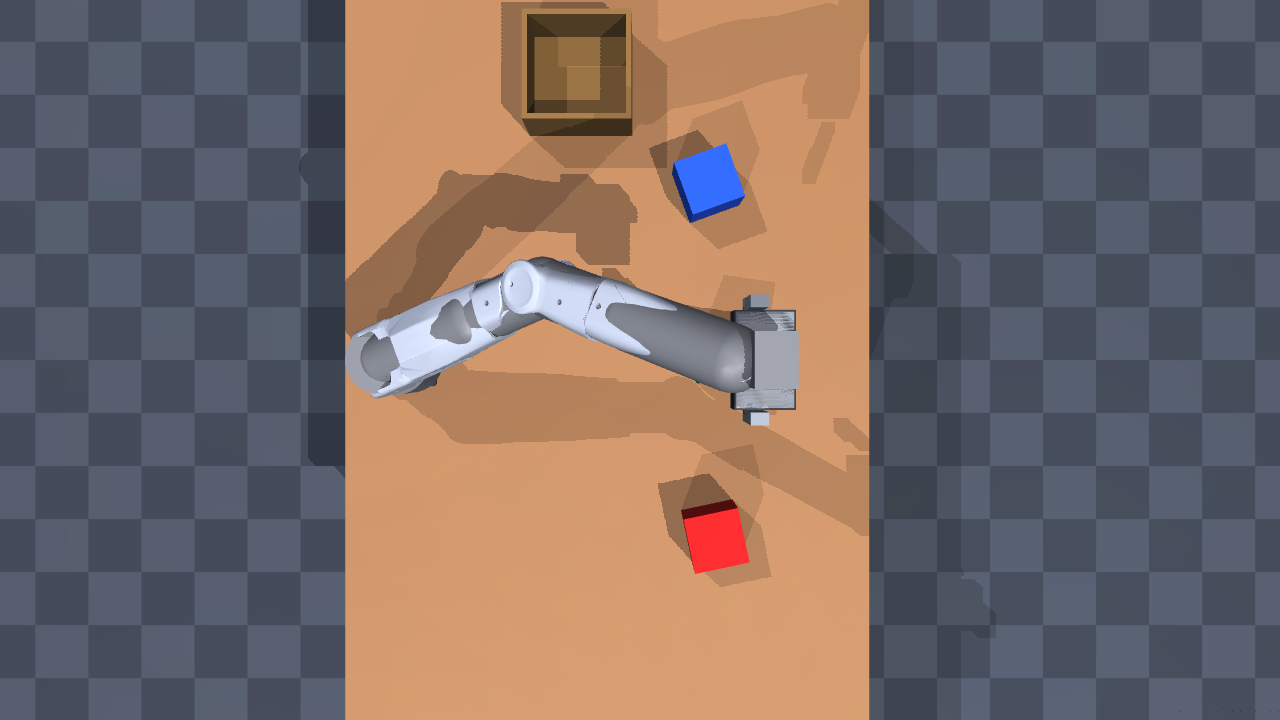
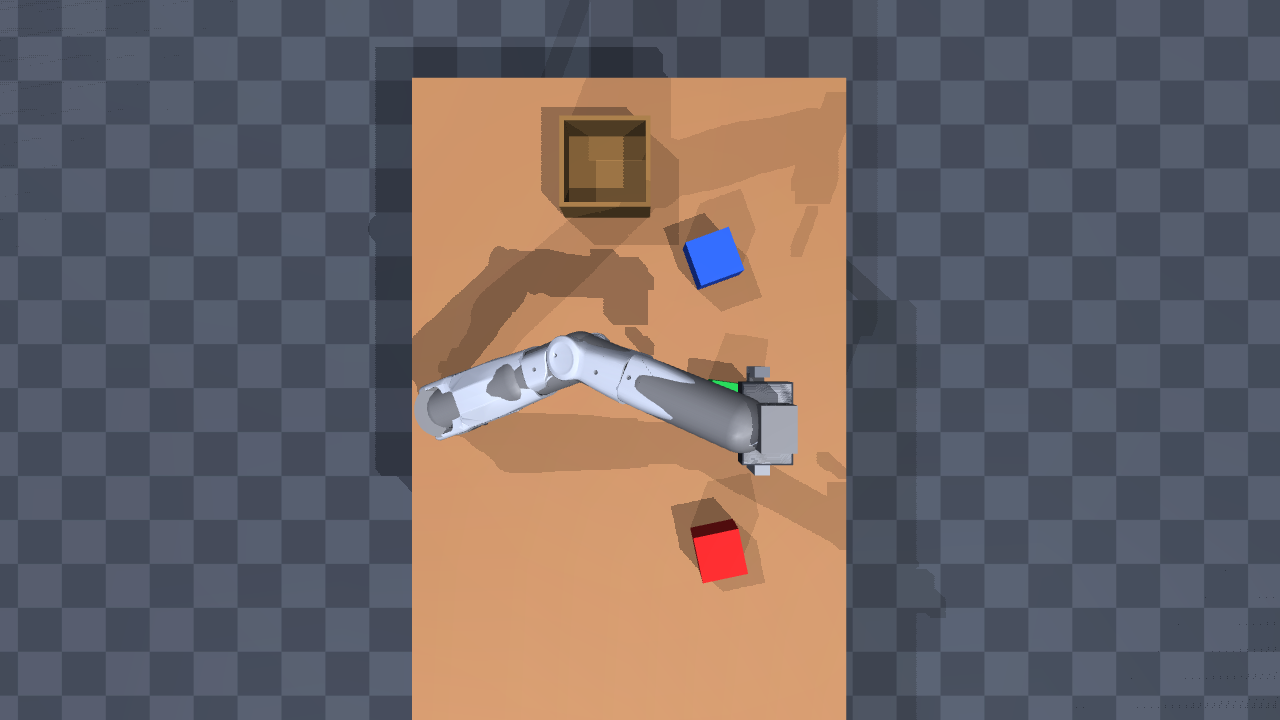
fix: 俯视相机取景扩到包含收纳篮，机械臂占比 1.27%→2.07%

Changed region(s): [[0.2188, 0.0, 0.75, 1.0], [0.7188, 0.4583, 0.75, 0.7944], [0.7188, 0.8556, 0.7812, 0.9778]]

diff --git a/tools/check_basket_px.py b/tools/check_basket_px.py
@@ -1,0 +1,66 @@
+#!/usr/bin/env python3
+"""用「隐藏 basket body 前后两次渲染差分」客观测篮子在各机位的可见像素。"""
+from __future__ import annotations
+
+import pathlib
+import sys
+
+import numpy as np
+import mujoco
+from PIL import Image
+
+HERE = pathlib.Path.home() / "NERO"
+sys.path.insert(0, str(HERE))
+
+
+def render(m, d, cam, w=1280, h=720):
+    r = mujoco.Renderer(m, h, w)
+    m.vis.global_.fovy = 42
+    r.update_scene(d, cam)
+    img = r.render().copy()
+    r.close()
+    return img
+
+
+def main():
+    m = mujoco.MjModel.from_xml_path(str(HERE / "nero_table_scene.xml"))
+    d = mujoco.MjData(m)
+    mujoco.mj_forward(m, d)
+    bid = mujoco.mj_name2id(m, mujoco.mjtObj.mjOBJ_BODY, "basket")
+    # basket 及其所有 geom
+    geoms = [g for g in range(m.ngeom) if m.geom_bodyid[g] == bid]
+    print("篮子 body id=%d, geom %d 个: %s"
+          % (bid, len(geoms),
+             [mujoco.mj_id2name(m, mujoco.mjtObj.mjOBJ_GEOM, g) for g in geoms]))
+
+    cams = {"overview": ("overview", None), "top": ("top", None)}
+    for nm, (xml_cam, _) in cams.items():
+        cid = mujoco.mj_name2id(m, mujoco.mjtObj.mjOBJ_CAMERA, xml_cam)
+        cam = mujoco.MjvCamera()
+        cam.type = mujoco.mjtCamera.mjCAMERA_FIXED
+        cam.fixedcamid = cid
+        a = render(m, d, cam)
+
+        # 隐藏 basket 的所有 geom
+        saved = [m.geom_rgba[g].copy() for g in geoms]
+        saved_vis = [m.geom_group[g] for g in geoms]
+        for g in geoms:
+            m.geom_group[g] = 3   # 只关掉 geomgroup 0/1/2 时不可见
+        b = render(m, d, cam)
+        for g, c, v in zip(geoms, saved, saved_vis):
+            m.geom_rgba[g] = c
+            m.geom_group[g] = v
+
+        diff = np.abs(a.astype(np.int16) - b.astype(np.int16)).max(axis=2)
+        n = int((diff > 8).sum())
+        frac = 100.0 * n / (a.shape[0] * a.shape[1])
+        print("%-10s 篮子像素 %6d  %.2f%%" % (xml_cam, n, frac))
+        if n:
+            ys, xs = np.nonzero(diff > 8)
+            print("           bbox x[%d,%d] y[%d,%d]" % (xs.min(), xs.max(), ys.min(), ys.max()))
+            Image.fromarray(a).save(HERE / "out" / ("basket_%s.png" % xml_cam))
+            Image.fromarray(b).save(HERE / "out" / ("nobasket_%s.png" % xml_cam))
+
+
+if __name__ == "__main__":
+    main()

diff --git a/tools/check_basket_vis.py b/tools/check_basket_vis.py
@@ -1,0 +1,25 @@
+#!/usr/bin/env python3
+"""检查成果图里能不能看到篮子（木色材质）。"""
+from __future__ import annotations
+
+import pathlib
+
+import numpy as np
+from PIL import Image
+
+OUT = pathlib.Path.home() / "NERO" / "out"
+for nm in ["nero_overview.png", "showcase_grasp.png", "showcase_front.png",
+           "showcase_side.png", "showcase_iso.png"]:
+    p = OUT / nm
+    if not p.exists():
+        print("%-24s 缺失" % nm)
+        continue
+    a = np.asarray(Image.open(p).convert("RGB")).astype(np.float32) / 255.0
+    # 木色 mat_basket rgba (0.55,0.40,0.22) 渲染后大致 R>0.35, R-B>0.15
+    wood = (a[..., 0] > 0.34) & (a[..., 0] - a[..., 2] > 0.16) & (a[..., 1] > 0.22) & (a[..., 1] < 0.75)
+    ys, xs = np.nonzero(wood)
+    if len(xs):
+        print("%-24s 木色 %6d px  bbox x[%d,%d] y[%d,%d]"
+              % (nm, len(xs), xs.min(), xs.max(), ys.min(), ys.max()))
+    else:
+        print("%-24s 木色      0 px" % nm)

diff --git a/build_nero.py b/build_nero.py
@@ -574,7 +574,7 @@ def main():
 """ + camera_xml("overview", (1.05, -1.20, 1.42), (-0.10, 0.05, 0.92), 40) + """
 """ + camera_xml("arm_front", (-0.28, -0.92, 1.10), (-0.10, 0.02, 1.00), 42) + """
 """ + camera_xml("arm_side", (0.62, -0.60, 1.18), (-0.16, 0.02, 1.00), 42) + """
-""" + camera_xml("top", (0.05, 0.00, 2.10), (0.05, 0.00, 0.80), 44) + """
+""" + camera_xml("top", (0.02, 0.08, 2.10), (0.02, 0.08, 0.80), 52) + """
   </worldbody>
 
   <actuator>

diff --git a/tools/zoom_basket.py b/tools/zoom_basket.py
@@ -1,0 +1,8 @@
+from PIL import Image
+import pathlib
+
+OUT = pathlib.Path.home() / "NERO" / "out"
+im = Image.open(OUT / "nero_overview.png")
+c = im.crop((690, 320, 1140, 630)).resize((900, 620), Image.LANCZOS)
+c.save(OUT / "zoom_basket_overview.png")
+print("ok", c.size)
